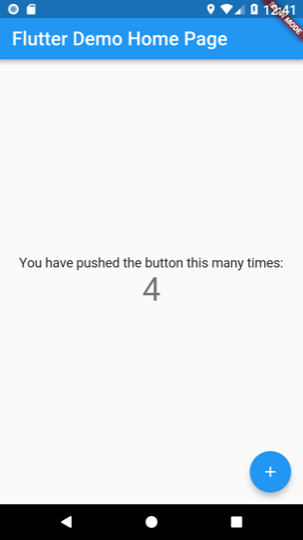
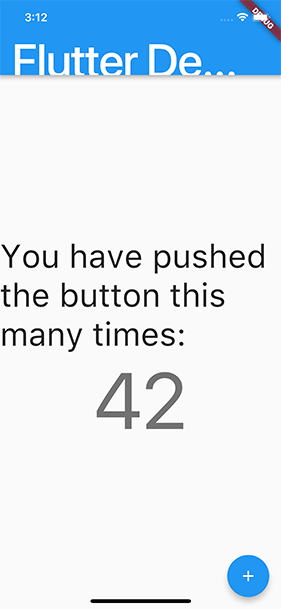
Use iOS screenshots

diff --git a/accessiblity.md b/accessiblity.md
@@ -56,18 +56,18 @@ determining font sizes.
 
 Font sizes are calculated automatically by Flutter based on the OS setting.
 However, as a developer you should make sure your all layout has enough room to
-render all it's contents when the font sizes are increased, for example by
-testing all of your app on a small-screen device configured to use the largest
-font setting.
+render all it's contents when the font sizes are increased. For example you can
+test all parts of your app on a small-screen device configured to use the
+largest font setting.
 
 ### Example
 
 The following two screenshots show the standard Flutter app template rendered 1)
-with default Android font setting, and 2) with the largest font setting
-specified in Android accessibility settings.
+with default iOS font setting, and 2) with the largest font setting
+selected in iOS accessibility settings.
 
-![Screenshot showing a Flutter app using regular font sizes](/images/a18n/a18n-fonts-regular.png)
-![Screenshot showing a Flutter app using large font sizes](/images/a18n/a18n-fonts-large.png)
+![Screenshot showing a Flutter app using regular font size](/images/a18n/a18n-fonts-regular.png)
+![Screenshot showing a Flutter app using largest available font size](/images/a18n/a18n-fonts-large.png)
 
 ## Screen readers {#screen-reader}
 
